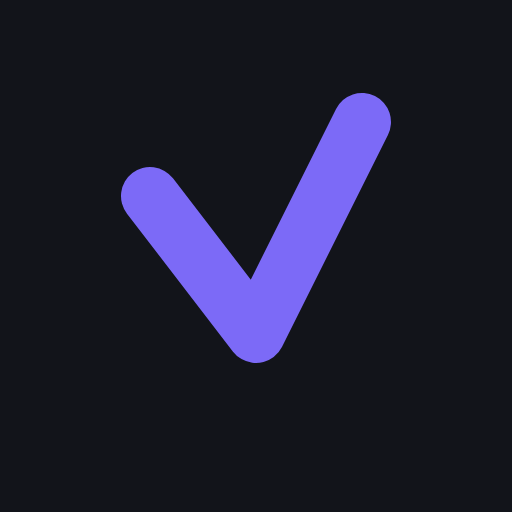
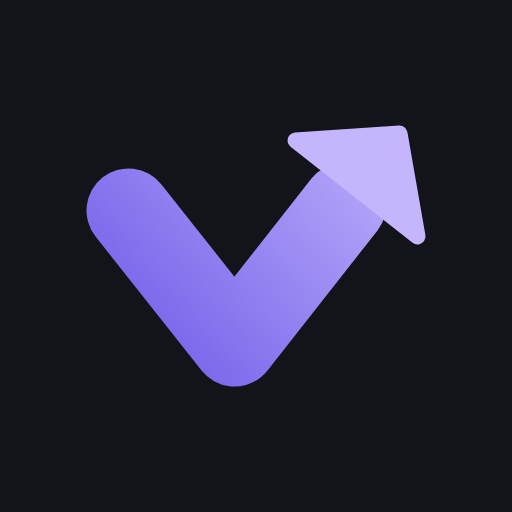
feat(marca): ícono nuevo — la V que sube, más gruesa y con flecha (#7)
El ícono anterior (un trazo fino que baja y sube más alto) se leía como un
check ✓ y se afinaba a tamaño de pantalla de inicio. Elegido por el dueño entre
cuatro opciones: la "V en ascenso", pero más gruesa.

- Trazo de 84 sobre 512 (antes 58), con degradado de #6d5ce8 a #c4b5fd y una
  flecha en el extremo: es la flecha lo que la separa de un check y la lee como
  "finanzas que crecen".
- El mismo glifo en los tres archivos de marca: `favicon.svg` (sin fondo),
  `marca.svg` (fondo, fuente de los PNG) y `marca-maskable.svg` (al 84%, para
  que ningún recorte de Android la muerda). El punto más lejano del glifo queda
  a 189 px del centro en `marca.svg`, dentro del círculo de 205 de Android.
- Nuevo `apple-touch-icon.png` de 180×180, el tamaño nativo del iPhone (antes
  iOS reescalaba el de 192). Declarado con `sizes` y precacheado.
- PNG regenerados con `scripts/generar-iconos.mjs`, que ahora también produce
  el de 180.

Claude-Session: https://claude.ai/code/session_01ECacUWd6spbwWKTwEMrrEf

Changed region(s): [[0.1562, 0.1562, 0.8438, 0.7812]]

diff --git a/vite.config.ts b/vite.config.ts
@@ -28,7 +28,7 @@ export default defineConfig({
       },
       // `icons.svg` se fue: era un sprite de iconos de redes sociales de la
       // plantilla de Vite, sin un solo uso en `src/`, y estaba precacheándose.
-      includeAssets: ['favicon.svg', 'marca.svg', 'marca-maskable.svg'],
+      includeAssets: ['favicon.svg', 'marca.svg', 'marca-maskable.svg', 'apple-touch-icon.png'],
       manifest: {
         name: 'Vorta — Finanzas Personales',
         short_name: 'Vorta',

diff --git a/index.html b/index.html
@@ -3,7 +3,7 @@
   <head>
     <meta charset="UTF-8" />
     <link rel="icon" type="image/svg+xml" href="/favicon.svg" />
-    <link rel="apple-touch-icon" href="/pwa-192x192.png" />
+    <link rel="apple-touch-icon" sizes="180x180" href="/apple-touch-icon.png" />
 
     <!-- Solo los dos pesos que aparecen en el primer paint (400 del cuerpo y
          600 de los títulos y montos). Precargar los cuatro competiría con el
